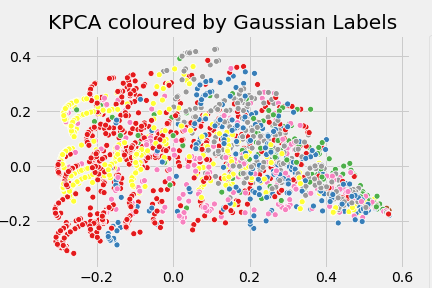
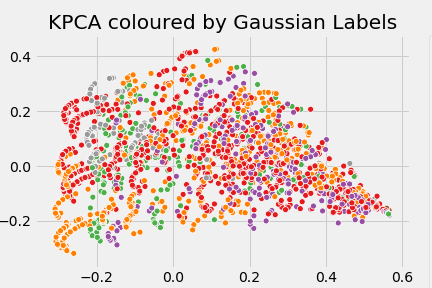
Clustering and MSCI prediction

Changed region(s): [[0.1204, 0.1562, 0.9028, 0.9062]]

diff --git a/notebooks/.ipynb_checkpoints/clustering-checkpoint.md b/notebooks/.ipynb_checkpoints/clustering-checkpoint.md
@@ -440,6 +440,10 @@ df = pd.read_csv("../inputs/universe_df_no_nans.csv").drop(columns=["Unnamed: 0"
 ```
 
 ```python
+print(f"{X_rf.shape[1]} features:  {list(X_rf.columns)}")
+```
+
+```python
 #X = np.array(pd.read_csv("../inputs/X_pca.csv"))
 #X = np.array(pd.read_csv("../inputs/X_kpca.csv"))
 scaler = StandardScaler()
@@ -1098,7 +1102,7 @@ model, X_train, X_test, y_train, y_test = train_random_forest(
     params, 
     test_size=0.2, 
     with_labels=True, 
-    labels="aff_labels",)
+    labels="mkmean_labels",)
 ```
 
 ```python
@@ -1113,7 +1117,7 @@ confusion_mat_df(model, y_test, y_pred, percent=False)
 confusion_mat_df(model, y_test, y_pred, percent=True)
 ```
 
-From this confusion matrix, we see that catagory A is predicted very well from SFDR metrics + mkmeans labels.
+From this confusion matrix, we see that category A is predicted very well from SFDR metrics + mkmeans labels.
 
 ```python
 best_model = model
@@ -1121,14 +1125,12 @@ best_model = model
 
 ```python
 n_features = 15
-
 importances = pd.DataFrame(list(X_train.columns))
 importances["feature_importances"] = best_model.feature_importances_
 importances.columns = ["features", "importances"]
 importances = importances.sort_values(by=["importances"], ascending=False).reset_index().copy()
 importances.loc[:, "features":"importances"].plot(kind="barh")
 plt.yticks(ticks=range(n_features), labels=importances[:n_features]["features"])
-plt.title(f"Top {n_features} feature importance for threshold of {threshold}")
 plt.show()
 ```
 

diff --git a/notebooks/clustering.md b/notebooks/clustering.md
@@ -440,6 +440,10 @@ df = pd.read_csv("../inputs/universe_df_no_nans.csv").drop(columns=["Unnamed: 0"
 ```
 
 ```python
+print(f"{X_rf.shape[1]} features:  {list(X_rf.columns)}")
+```
+
+```python
 #X = np.array(pd.read_csv("../inputs/X_pca.csv"))
 #X = np.array(pd.read_csv("../inputs/X_kpca.csv"))
 scaler = StandardScaler()
@@ -1098,7 +1102,7 @@ model, X_train, X_test, y_train, y_test = train_random_forest(
     params, 
     test_size=0.2, 
     with_labels=True, 
-    labels="aff_labels",)
+    labels="mkmean_labels",)
 ```
 
 ```python
@@ -1113,7 +1117,7 @@ confusion_mat_df(model, y_test, y_pred, percent=False)
 confusion_mat_df(model, y_test, y_pred, percent=True)
 ```
 
-From this confusion matrix, we see that catagory A is predicted very well from SFDR metrics + mkmeans labels.
+From this confusion matrix, we see that category A is predicted very well from SFDR metrics + mkmeans labels.
 
 ```python
 best_model = model
@@ -1121,14 +1125,12 @@ best_model = model
 
 ```python
 n_features = 15
-
 importances = pd.DataFrame(list(X_train.columns))
 importances["feature_importances"] = best_model.feature_importances_
 importances.columns = ["features", "importances"]
 importances = importances.sort_values(by=["importances"], ascending=False).reset_index().copy()
 importances.loc[:, "features":"importances"].plot(kind="barh")
 plt.yticks(ticks=range(n_features), labels=importances[:n_features]["features"])
-plt.title(f"Top {n_features} feature importance for threshold of {threshold}")
 plt.show()
 ```
 
